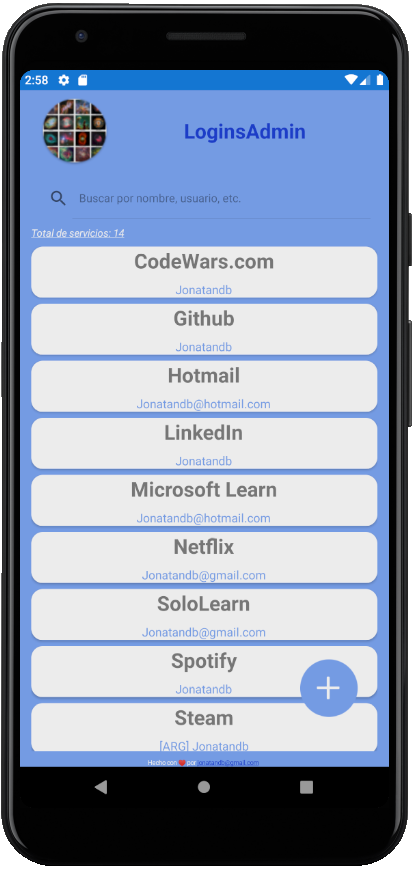
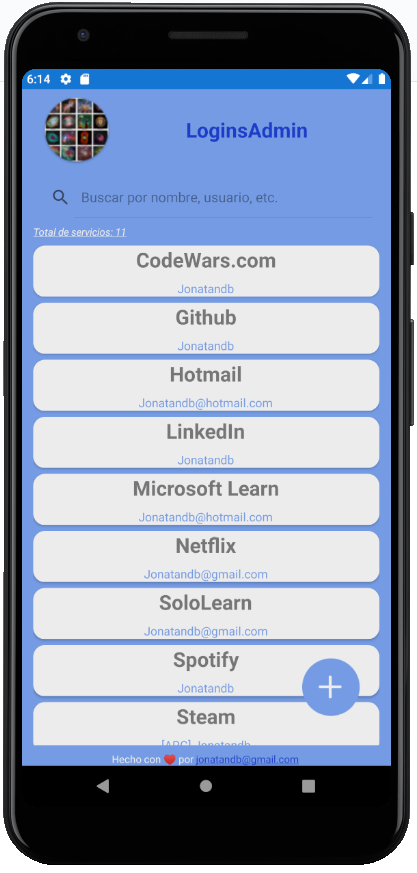
Agrando un poquito la fuente de distintos textos que se veían muy pequeños
Ajusto el ancho del botón Crear contraseña para que ocupe el ancho del texto y no del stackLayout en el que está

Actualizo readme y screenshot

diff --git a/LoginsAdmin/Presentation/Login/Login.xaml b/LoginsAdmin/Presentation/Login/Login.xaml
@@ -35,7 +35,7 @@
                         FontAttributes="Bold"/>
                 
                 <Label Text="Administrador de credenciales by Jonatandb"
-                        FontSize="Micro"
+                        FontSize="Caption"
                         TextColor="{StaticResource TextColorLight}"
                         HorizontalTextAlignment="Center" 
                         LineBreakMode="WordWrap"/>
@@ -83,6 +83,7 @@
                     </Entry>
                     
                     <Button Text="Crear contraseña" 
+                            HorizontalOptions="Center"
                             Command="{Binding EstablecerClaveCommand, Mode=OneTime}"
                             CommandParameter="{x:Reference txtNewPassword}"/>
                     
@@ -95,9 +96,10 @@
 
                     <Entry  x:Name="txtPassword"
                             IsPassword="True" 
+                            HorizontalTextAlignment="Center"
+                            HorizontalOptions="Center" 
                             Placeholder="Ingrese la contraseña" 
                             Text="{Binding Clave, Mode=TwoWay}" 
-                            HorizontalTextAlignment="Center"
                             ReturnCommand="{Binding AccederCommand, Mode=OneTime}"
                             ReturnCommandParameter="{x:Reference txtPassword}"
                             IsSpellCheckEnabled="False">
@@ -116,7 +118,8 @@
                         
                     </Entry>
 
-                    <Button Text="Continuar" 
+                    <Button Text="Continuar"
+                            HorizontalOptions="Center"
                             Command="{Binding AccederCommand, Mode=OneTime}"
                             CommandParameter="{x:Reference txtPassword}"/>
                     

diff --git a/LoginsAdmin/Presentation/_Controles/About/About.xaml b/LoginsAdmin/Presentation/_Controles/About/About.xaml
@@ -24,13 +24,13 @@
             <FormattedString>
                 
                 <Span Text="Hecho con ♥ por " 
-                        FontSize="Micro" 
+                        FontSize="Caption" 
                         TextColor="{StaticResource TextColorLight}"/>
                 
                 <Span Text="jonatandb@gmail.com"
                         TextColor="{StaticResource MainBlue}"
                         TextDecorations="Underline"
-                        FontSize="Micro">
+                        FontSize="Caption">
                     
                     <Span.GestureRecognizers>
                         

diff --git a/LoginsAdmin/Presentation/Inicio/Inicio.xaml b/LoginsAdmin/Presentation/Inicio/Inicio.xaml
@@ -33,6 +33,7 @@
                 <SearchBar Placeholder="Buscar por nombre, usuario, etc."
                             TextColor="{StaticResource TextColorLight}"
                             Text="{Binding SearchText, Mode=TwoWay}"
+                            FontSize="Body"
                             IsSpellCheckEnabled="False"/>
 
                 <!--Estado-->

diff --git a/README.md b/README.md
@@ -230,6 +230,9 @@ Realizado con Xamarin.Forms y C#
 
  - <a href="https://www.youtube.com/watch?v=VVpbklb6vDc&list=PLM75ZaNQS_FaEPpqVjfQdnFaSR1EWCeNZ&index=17" target="_blank">Xamarin.Forms 101: Using Embedded Images</a>
 
+ - <a href="https://stackoverflow.com/questions/29903749/linq-orderby-igorning-case-with-true-ascii-ordering" target="_blank">LINQ OrderBy igorning case with true ASCII ordering</a>
+
+
 ---
 
 ### Otras pruebas:
